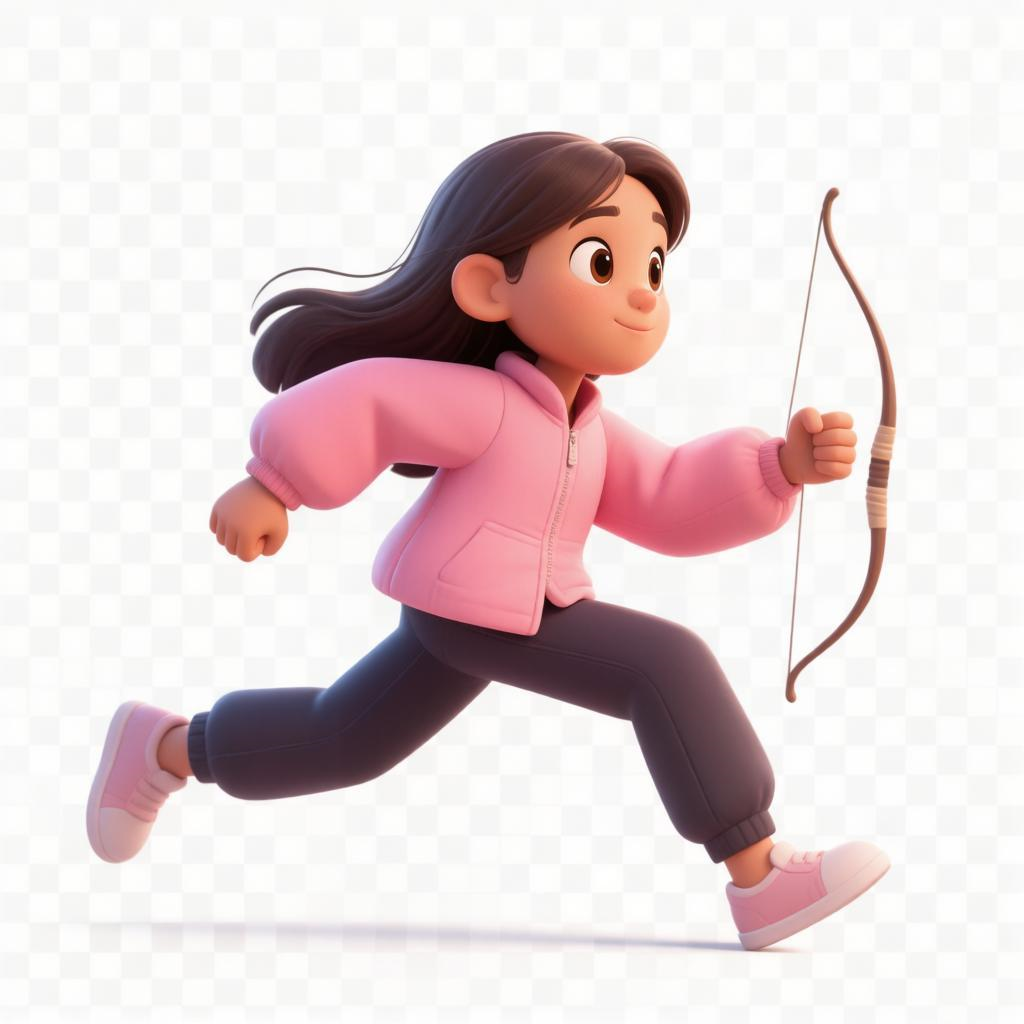
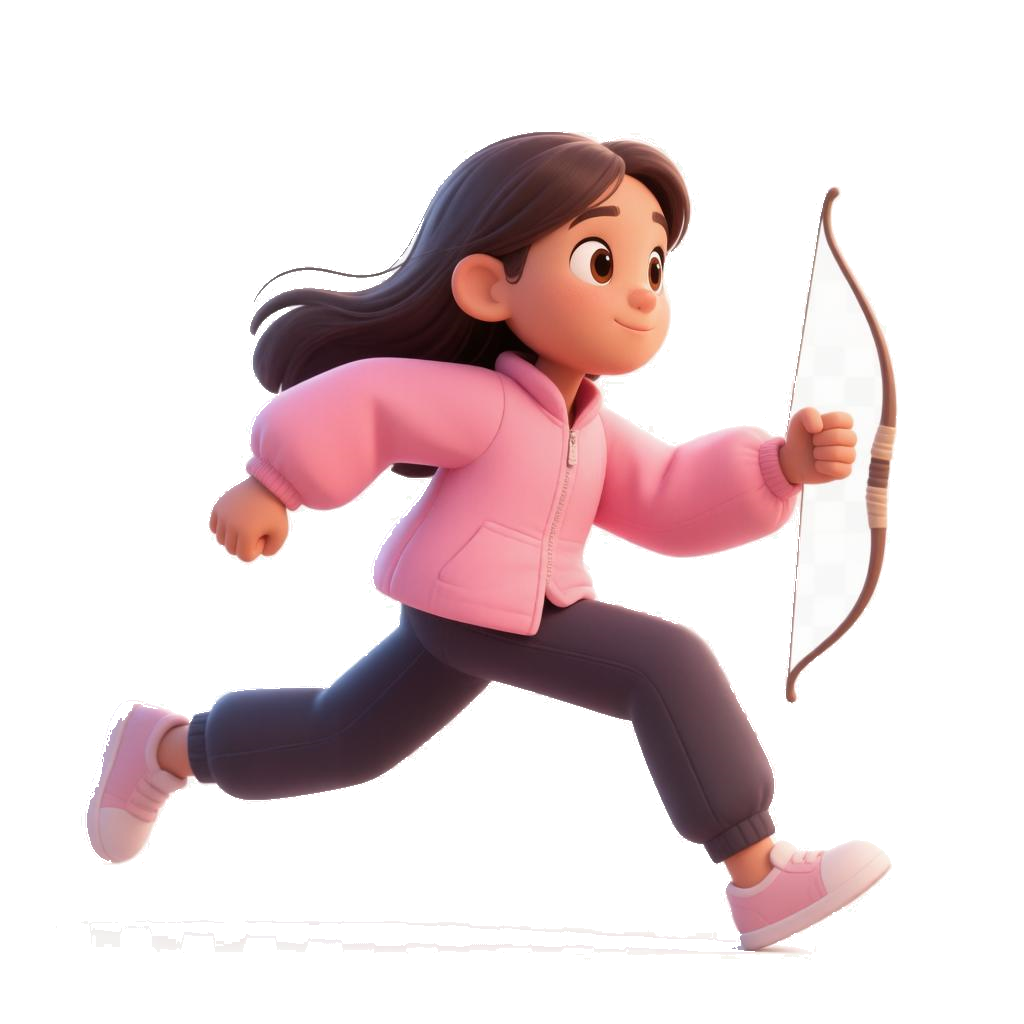
remove white background from Mia sprites

Changed region(s): [[0.1562, 0.875, 0.7188, 0.9375], [0.0938, 0.6875, 0.125, 0.75], [0.25, 0.2812, 0.2812, 0.3125]]

diff --git a/magic_app/public/js/games/runner.js b/magic_app/public/js/games/runner.js
@@ -1454,11 +1454,123 @@ function launchRunnerEpisode(ep, opts = {}) {
   let runFrameCounter = 0;
   let animState = 'idle';
 
-  const miaRun1 = new Image();
-  miaRun1.src = 'assets/images/mia-run1.png';
-  const miaRun2 = new Image();
-  miaRun2.src = 'assets/images/mia-run2.png';
+  const miaRunSrc = [
+    Object.assign(new Image(), { src: 'assets/images/mia-run1.png' }),
+    Object.assign(new Image(), { src: 'assets/images/mia-run2.png' })
+  ];
+  const miaRunSprites = [null, null];
   const MIA_SHOOT_FRAMES = 18; // ~300 мс при 60 fps — кадр с луком
+
+  function isMiaBgPixel(r, g, b) {
+    return r > 240 && g > 240 && b > 240;
+  }
+
+  function makeTransparent(image) {
+    const canvas = document.createElement('canvas');
+    const w = image.naturalWidth || image.width;
+    const h = image.naturalHeight || image.height;
+    canvas.width = w;
+    canvas.height = h;
+    const c = canvas.getContext('2d', { willReadFrequently: true });
+    c.drawImage(image, 0, 0);
+    const imageData = c.getImageData(0, 0, w, h);
+    const data = imageData.data;
+    const visited = new Uint8Array(w * h);
+    const stack = [];
+
+    const tryPush = (x, y) => {
+      if (x < 0 || y < 0 || x >= w || y >= h) return;
+      const idx = y * w + x;
+      if (visited[idx]) return;
+      const i = idx * 4;
+      if (data[i + 3] === 0) {
+        visited[idx] = 1;
+        return;
+      }
+      if (isMiaBgPixel(data[i], data[i + 1], data[i + 2])) {
+        visited[idx] = 1;
+        stack.push(idx);
+      }
+    };
+
+    for (let x = 0; x < w; x++) {
+      tryPush(x, 0);
+      tryPush(x, h - 1);
+    }
+    for (let y = 0; y < h; y++) {
+      tryPush(0, y);
+      tryPush(w - 1, y);
+    }
+
+    while (stack.length) {
+      const idx = stack.pop();
+      const i = idx * 4;
+      data[i + 3] = 0;
+      const x = idx % w;
+      const y = (idx / w) | 0;
+      tryPush(x + 1, y);
+      tryPush(x - 1, y);
+      tryPush(x, y + 1);
+      tryPush(x, y - 1);
+      tryPush(x + 1, y + 1);
+      tryPush(x - 1, y - 1);
+      tryPush(x + 1, y - 1);
+      tryPush(x - 1, y + 1);
+    }
+
+    const isGrayShadow = (r, g, b) => {
+      const min = Math.min(r, g, b);
+      const max = Math.max(r, g, b);
+      return min > 165 && max < 240 && (max - min) < 30;
+    };
+    const grayStack = [];
+    const tryGray = (x, y) => {
+      if (x < 0 || y < 0 || x >= w || y >= h) return;
+      const idx = y * w + x;
+      const i = idx * 4;
+      if (data[i + 3] === 0) return;
+      if (!isGrayShadow(data[i], data[i + 1], data[i + 2])) return;
+      data[i + 3] = 0;
+      grayStack.push(idx);
+    };
+    for (let y = 0; y < h; y++) {
+      for (let x = 0; x < w; x++) {
+        if (data[(y * w + x) * 4 + 3] !== 0) continue;
+        tryGray(x + 1, y);
+        tryGray(x - 1, y);
+        tryGray(x, y + 1);
+        tryGray(x, y - 1);
+      }
+    }
+    while (grayStack.length) {
+      const idx = grayStack.pop();
+      const x = idx % w;
+      const y = (idx / w) | 0;
+      tryGray(x + 1, y);
+      tryGray(x - 1, y);
+      tryGray(x, y + 1);
+      tryGray(x, y - 1);
+    }
+
+    c.putImageData(imageData, 0, 0);
+    return canvas;
+  }
+
+  function prepareMiaSprite(index) {
+    const img = miaRunSrc[index];
+    const apply = () => {
+      if (!img.naturalWidth) return;
+      try {
+        miaRunSprites[index] = makeTransparent(img);
+      } catch {
+        miaRunSprites[index] = img;
+      }
+    };
+    if (img.complete && img.naturalWidth > 0) apply();
+    else img.addEventListener('load', apply, { once: true });
+  }
+  prepareMiaSprite(0);
+  prepareMiaSprite(1);
 
   // —— Web Audio synthwave ——
   const audioCtx = new (window.AudioContext || window.webkitAudioContext)();
@@ -2469,7 +2581,10 @@ function launchRunnerEpisode(ep, opts = {}) {
   }
 
   function miaFrameReady(img) {
-    return !!(img && img.complete && img.naturalWidth > 0);
+    if (!img) return false;
+    const w = img.naturalWidth || img.width;
+    const h = img.naturalHeight || img.height;
+    return w > 0 && h > 0;
   }
 
   function drawMiaFallback(x, y) {
@@ -2521,7 +2636,7 @@ function launchRunnerEpisode(ep, opts = {}) {
     const x = ally.x;
     const y = ally.y;
     const shooting = ally.shootingT > 0;
-    const img = shooting || ally.runFrame === 1 ? miaRun2 : miaRun1;
+    const img = miaRunSprites[shooting || ally.runFrame === 1 ? 1 : 0];
 
     ctx.save();
     ctx.fillStyle = 'rgba(0,0,0,0.3)';
@@ -2530,8 +2645,8 @@ function launchRunnerEpisode(ep, opts = {}) {
     ctx.fill();
 
     if (miaFrameReady(img)) {
-      const iw = img.naturalWidth;
-      const ih = img.naturalHeight;
+      const iw = img.naturalWidth || img.width;
+      const ih = img.naturalHeight || img.height;
       const scale = Math.min(ally.w / iw, ally.h / ih);
       const dw = iw * scale;
       const dh = ih * scale;
